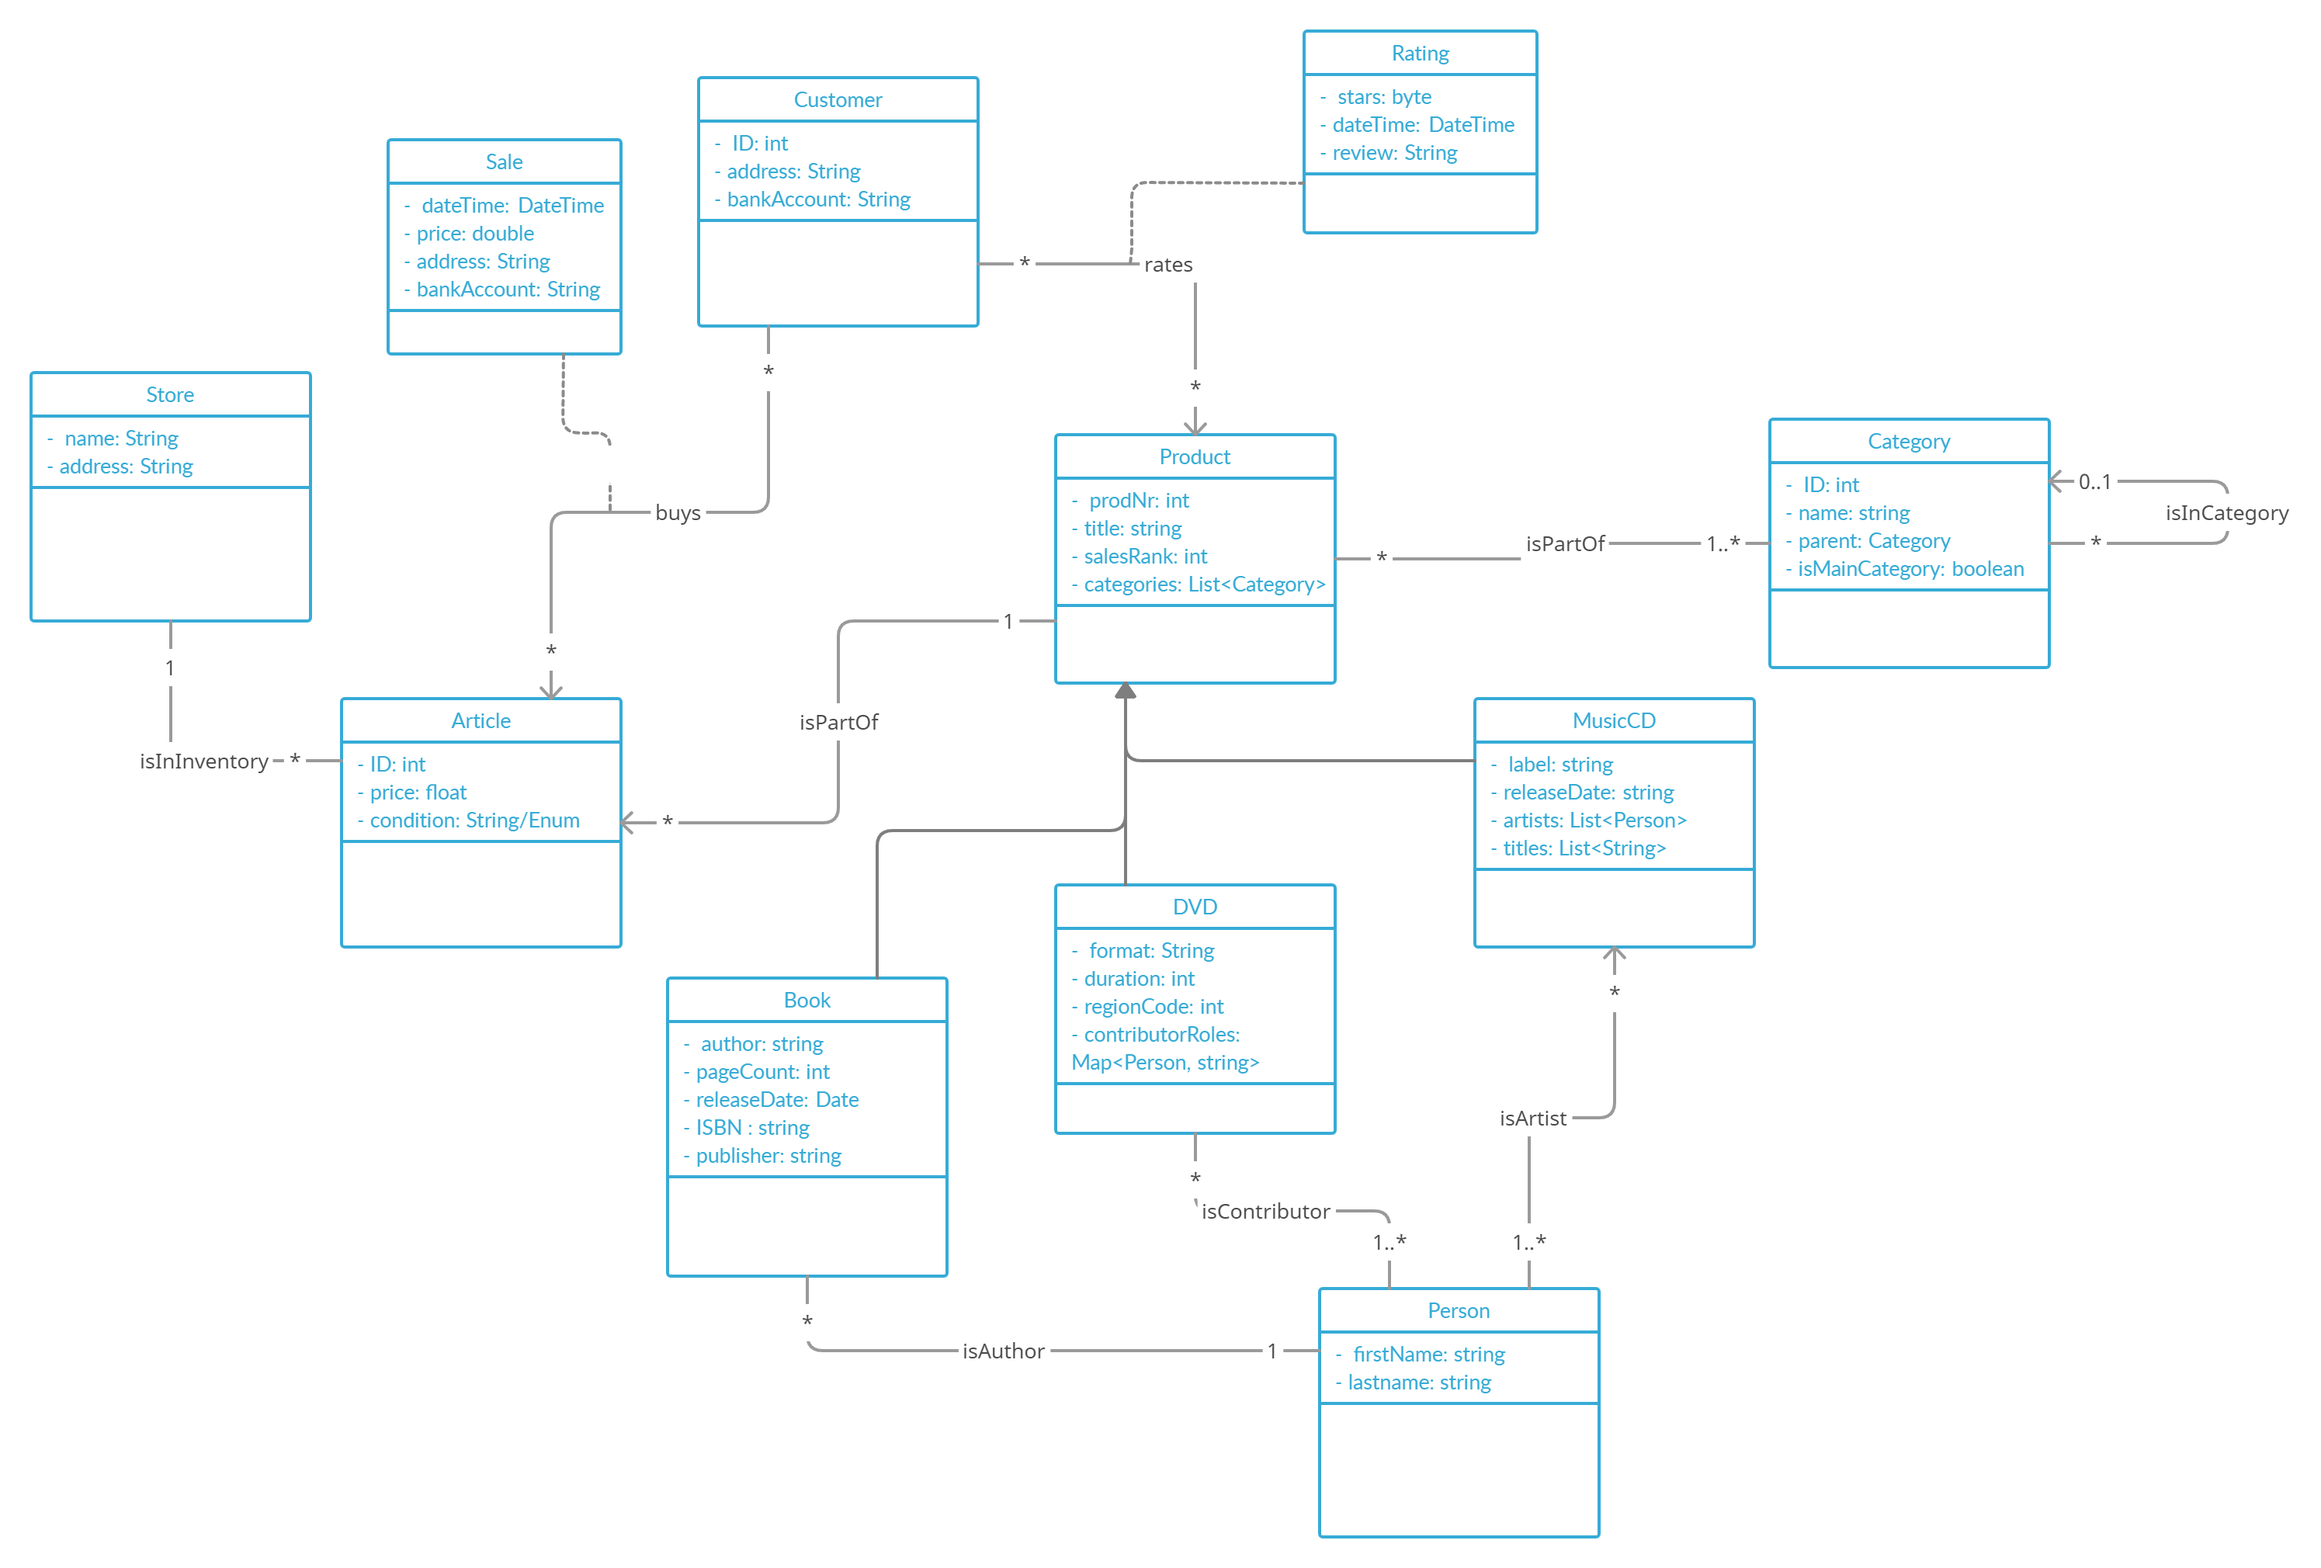
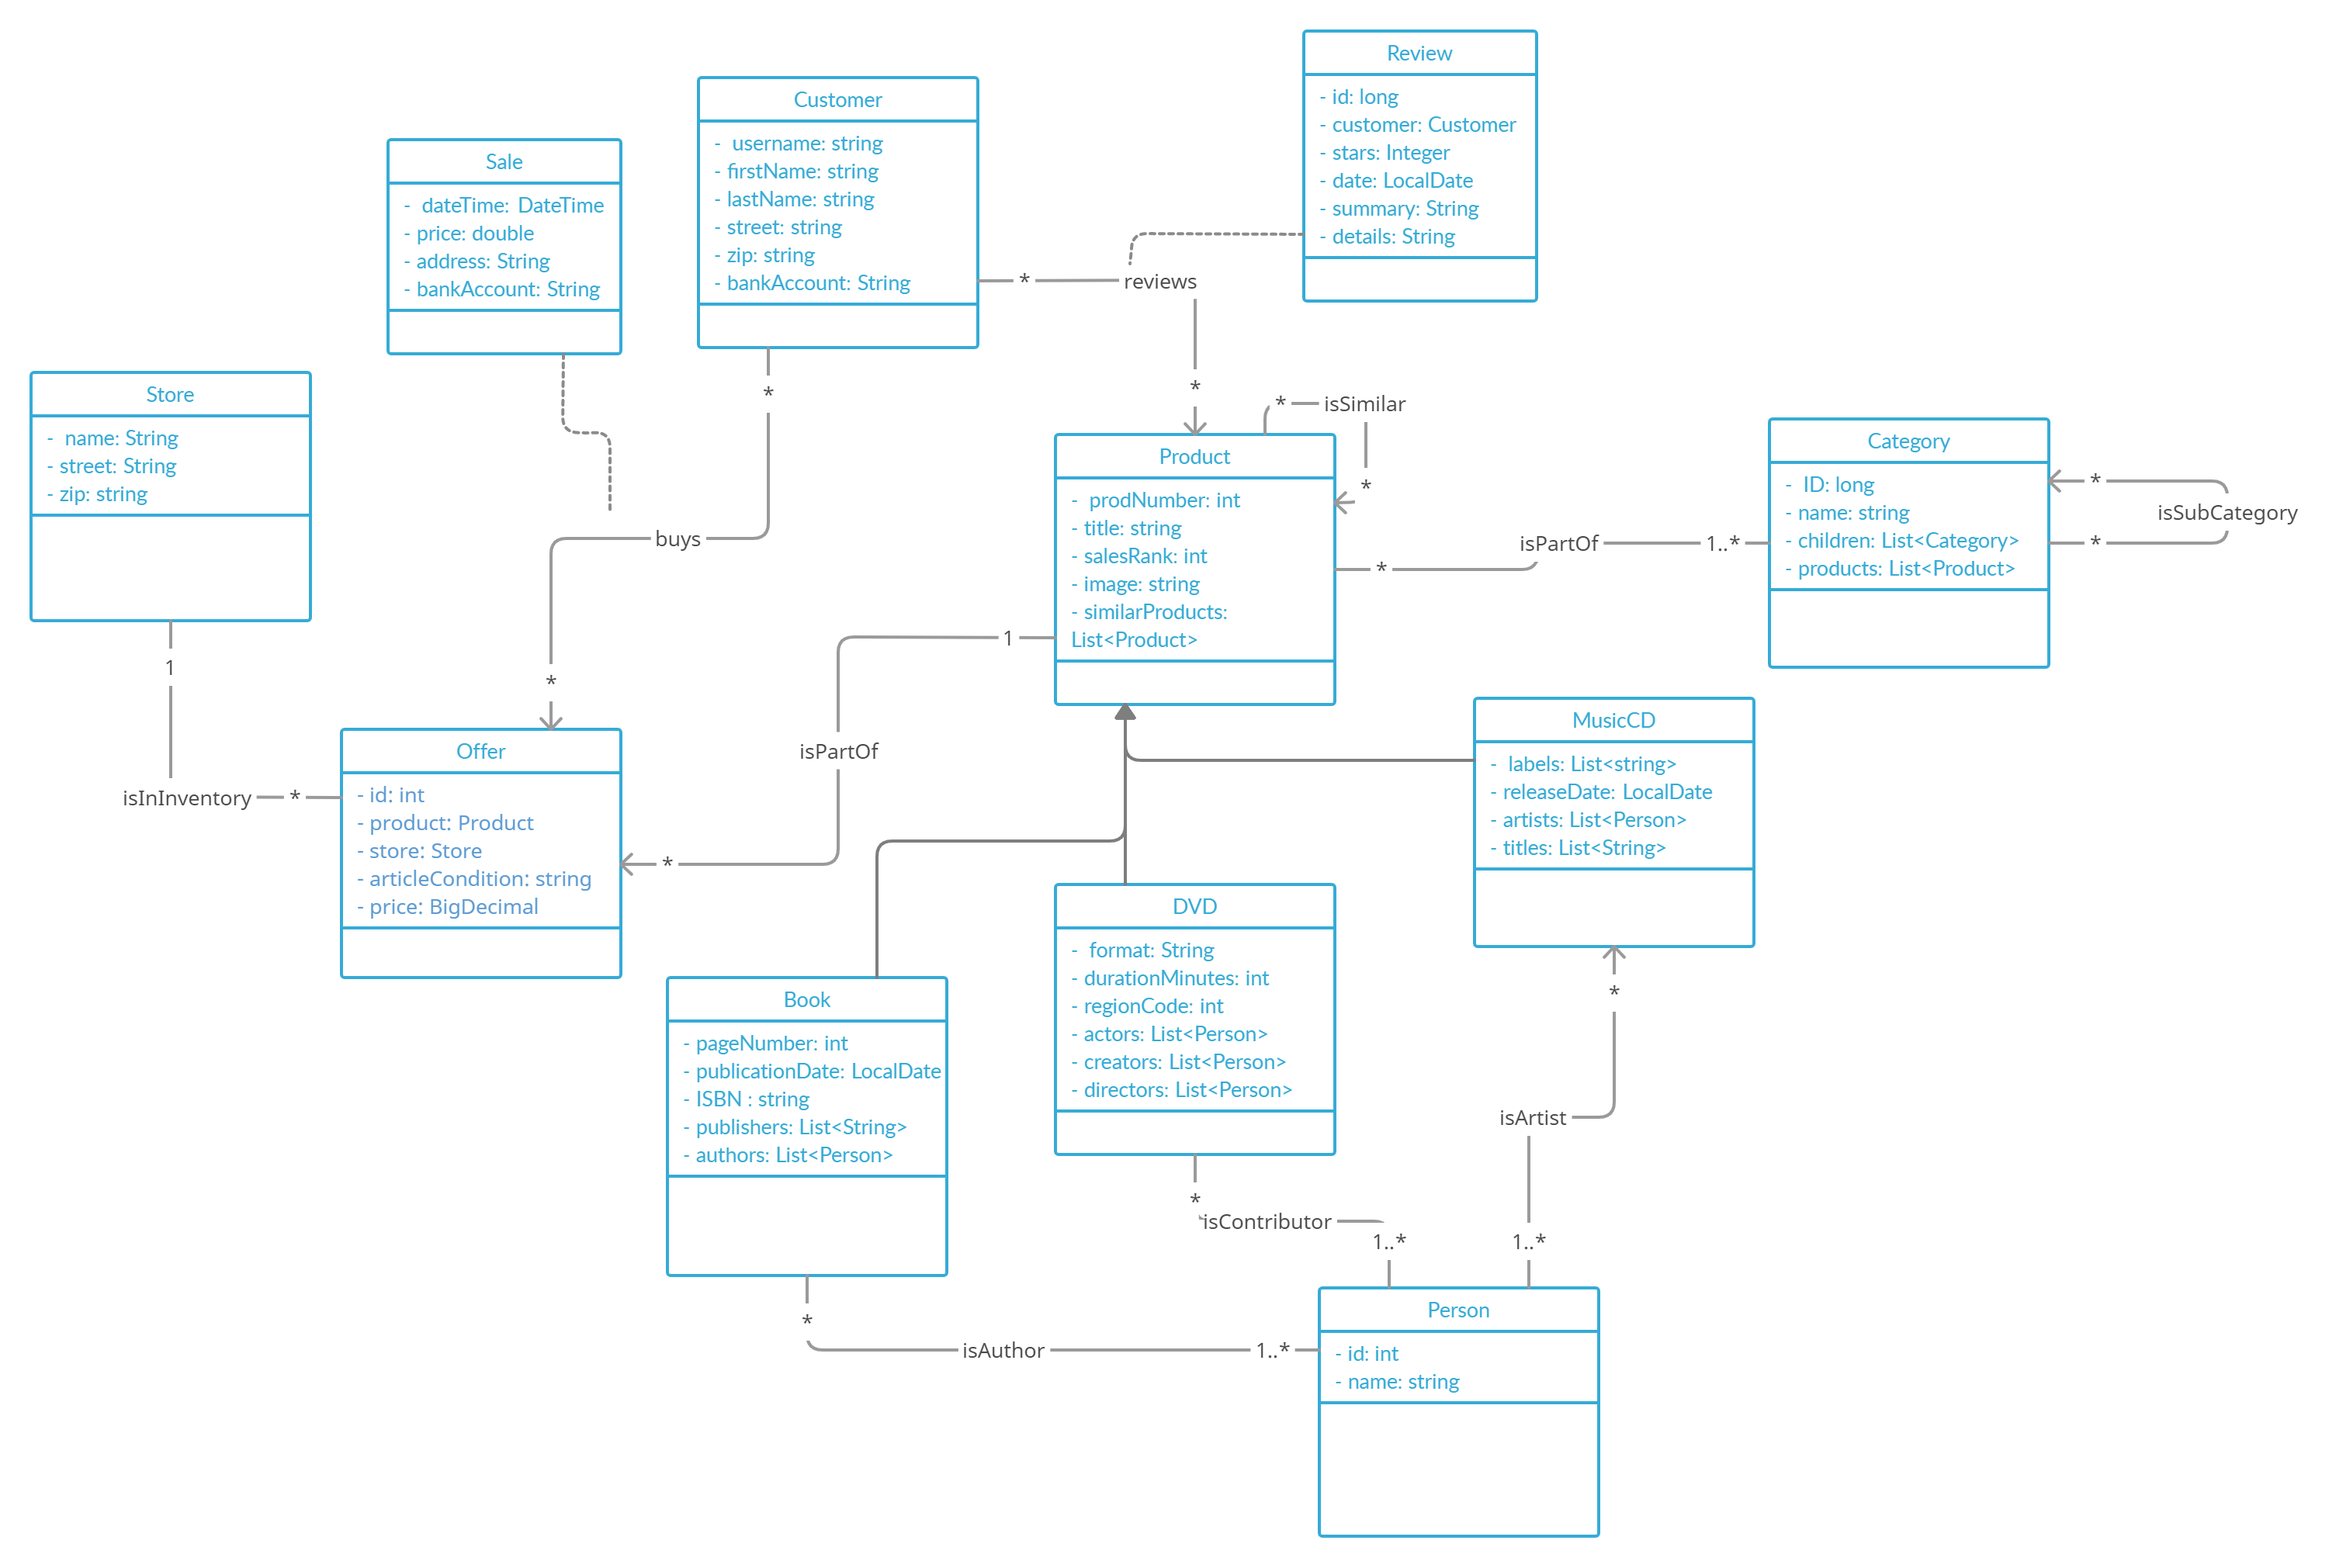
Refactored addNewReview and moved hibernate code to repo. Printed product details according to sub class. Updated UML.png

diff --git a/shop-app/src/main/java/com/unileipzig/shop/controller/MainController.java b/shop-app/src/main/java/com/unileipzig/shop/controller/MainController.java
@@ -98,17 +98,23 @@ public class MainController implements IMainController {
     }
 
     @Override
-    public void addNewReview(String username, String prodNumber, int stars, String summary, String details) {
-        Session session = HibernateConnector.getSession();
-        session.beginTransaction();
-        Customer customer = new CustomerRepository().getCustomer(username);
+    public void addNewReview(String username, String prodNumber, int stars, String summary, String details) throws InputException {
+        Customer customer = null;
+        if (!username.equals("guest")) {
+            customer = new CustomerRepository().getCustomer(username);
+            if (customer == null) {
+                throw new InputException(String.format("Customer with username %s does not exist.", username));
+            }
+        }
         Product product = new ProductRepository().getProduct(prodNumber);
+        if (product == null) {
+            throw new InputException(String.format("Product number %s does not exist.", prodNumber));
+        }
         Review review = new Review(customer, product, stars);
         review.setDate(LocalDate.now());
         review.setSummary(summary);
         review.setDetails(details);
-        session.save(review);
-        session.getTransaction().commit();
+        new ReviewRepository().addNewReview(review);
     }
 
     @Override

diff --git a/shop-app/src/main/java/com/unileipzig/shop/model/Dvd.java b/shop-app/src/main/java/com/unileipzig/shop/model/Dvd.java
@@ -114,4 +114,14 @@ public class Dvd extends Product {
     public void addDirector(Person director) {
         this.directors.add(director);
     }
+
+    @Override
+    public String toString() {
+        return String.format(super.toString() +
+                        "Product Type: DVD\n" +
+                        "Format: %s\n" +
+                        "Duration: %d min\n" +
+                        "Region Code: %d\n",
+                format, durationMinutes, regionCode);
+    }
 }

diff --git a/shop-app/src/main/java/com/unileipzig/shop/model/Book.java b/shop-app/src/main/java/com/unileipzig/shop/model/Book.java
@@ -96,4 +96,14 @@ public class Book extends Product {
     public void addAuthor(Person author) {
         authors.add(author);
     }
+
+    @Override
+    public String toString() {
+        return String.format(super.toString() +
+                        "Product Type: Book\n" +
+                        "Publication Date: %s\n" +
+                        "ISBN: %s\n" +
+                        "Page Count: %d\n",
+                publicationDate, isbn, pageNumber);
+    }
 }

diff --git a/shop-app/src/main/java/com/unileipzig/shop/controller/IMainController.java b/shop-app/src/main/java/com/unileipzig/shop/controller/IMainController.java
@@ -25,7 +25,7 @@ public interface IMainController {
 
     public List<Product> getSimilarCheaperProducts(String prodNumber) throws InputException;
 
-    public void addNewReview(String customer, String product, int stars, String summary, String details);
+    public void addNewReview(String customer, String product, int stars, String summary, String details) throws InputException;
 
     public List<Customer> getTrolls(double ratingLimit);
 

diff --git a/shop-app/src/main/java/com/unileipzig/shop/model/MusicCd.java b/shop-app/src/main/java/com/unileipzig/shop/model/MusicCd.java
@@ -92,4 +92,12 @@ public class MusicCd extends Product {
     public void addArtist(Person artist) {
         this.artists.add(artist);
     }
+
+    @Override
+    public String toString() {
+        return String.format(super.toString() +
+                "Product Type: Music-CD\n" +
+                "Publication Date: %s\n",
+                publicationDate);
+    }
 }

diff --git a/shop-app/src/main/java/com/unileipzig/shop/repository/ReviewRepository.java b/shop-app/src/main/java/com/unileipzig/shop/repository/ReviewRepository.java
@@ -33,4 +33,11 @@ public class ReviewRepository {
         query.setParameter("prodNumber", prodNumber);
         return query.list();
     }
+
+    public void addNewReview(Review review) {
+        Session session = HibernateConnector.getSession();
+        session.beginTransaction();
+        session.save(review);
+        session.getTransaction().commit();
+    }
 }

diff --git a/shop-app/src/main/java/com/unileipzig/shop/model/Product.java b/shop-app/src/main/java/com/unileipzig/shop/model/Product.java
@@ -112,7 +112,7 @@ public class Product {
         return String.format("Product-number: %s\n" +
                 "Title: %s\n" +
                 "Rating: %1.2f\n" +
-                "Sales-Rank: %d",
+                "Sales-Rank: %d\n",
                 prodNumber, title, rating, salesRank);
     }
 }
